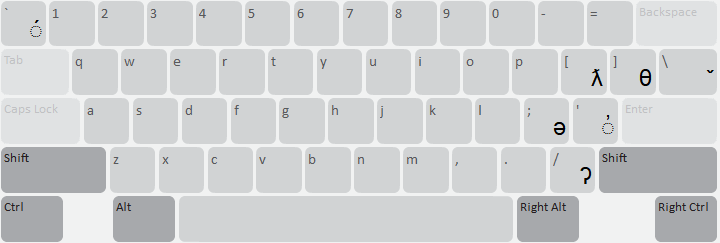
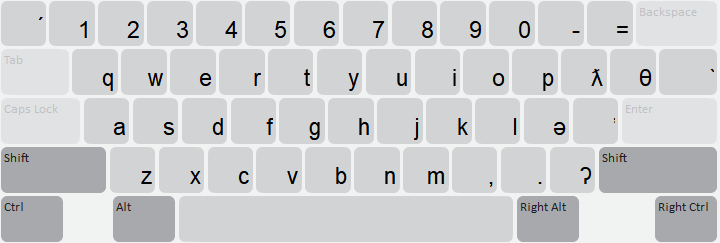
FV_klahoose
Mobile: added acute accent deadkey, fixed capital upsilon; Desktop: fixed iota key mapping; General: changed name of language, updated keymap images

diff --git a/release/fv/fv_klahoose/HISTORY.md b/release/fv/fv_klahoose/HISTORY.md
@@ -1,6 +1,12 @@
 Éy7á7juuthem Change History
 ============================
 
+10.1 (6 Mar 2024)
+----------------
+* Added acute accent deadkey to mobile layout.
+* Fixed capital upsilon on mobile layout.
+* Fixed iota key combination on desktop layout.
+
 10.0 (9 Feb 2024)
 ----------------
 * Changed name of language
